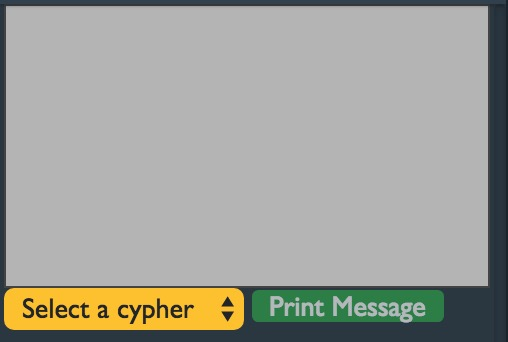
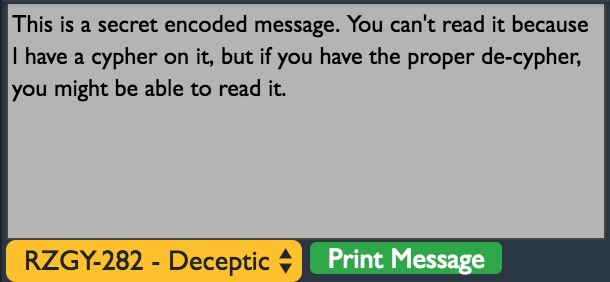
Add a couple of docs and a blog post. Update the Discord widget

Changed region(s): [[0.0, 0.0, 1.0, 1.0]]

diff --git a/website/core/Footer.js b/website/core/Footer.js
@@ -77,13 +77,7 @@ class Footer extends React.Component {
         <section className="copyright">
           Copyright &copy; {currentYear} Fyreworks LLC.
         </section>
-        <script
-          src="https://crate.widgetbot.io/v2"
-          defer
-          async
-          onLoad={this.loaded}
-          data-cfasync="false"
-        />
+        <script src="https://cdn.jsdelivr.net/npm/@widgetbot/crate@3" async />
         <script src="/scripts/crate.js" />
       </footer>
     );

diff --git a/website/static/scripts/crate.js b/website/static/scripts/crate.js
@@ -1,10 +1,12 @@
 function checkCrate() {
   if (window.Crate) {
-    return new Crate({
+    const crate = new Crate({
       server: "390968011605147648",
       channel: "391235306663182337"
     });
+    return;
   }
   setTimeout(checkCrate, 50);
 }
+
 checkCrate();

diff --git a/website/blog/2018-06-23-update-51.md b/website/blog/2018-06-23-update-51.md
@@ -1,0 +1,36 @@
+---
+title: "Update 51 - 🔋"
+author: Alex Anderson
+authorURL: http://twitter.com/ralex1993
+authorFBID: 764853781
+---
+
+## Version 0.2.47
+
+- Automatic updates are now triggered manually, to ensure you don't accidentally
+  update when you don't want to.
+- Inter-bridge messages can now be disabled on the Simulator config.
+- Add ability to change opacity of layers and objects on tactical map.
+- Added a THX card. [Read the docs](/docs/card_thx) for more information.
+- Added functionality for 'Speak' and 'Message' core actions.
+- Added a 'Soviet' card, a throwback to the old Magellan controls at the CMSEC.
+  It accessible through the actions picker on Core.
+
+- Bug Fixes
+  - Fixed an issue with scrolling videos file picker on tactical map configs.
+  - Adjusted tactical map layout and speeds. It should now be consistently sized
+    on core and the viewscreen, regardless of screen resolution.
+  - Removed the back button for validated damage reports.
+
+* Issues resolved in this update:
+  [here](https://github.com/Thorium-Sim/thorium/issues?utf8=✓&q=is%3Aissue+is%3Aclosed+closed%3A2018-06-19..2018-06-23)
+
+Also, be sure to join the
+[Thorium community chat channel](https://discord.gg/UvxTQZz). It's the best way
+to get questions answered and to receive updates and information.
+
+That's it for this week. Be sure to file any feature requests on the
+[Github repo](https://github.com/Thorium-Sim/thorium/issues) and see the current
+[roadmap](https://github.com/Thorium-Sim/thorium/projects/2).
+
+Alex

diff --git a/docs/card_comm_decoding.md b/docs/card_comm_decoding.md
@@ -2,3 +2,28 @@
 id:card_comm_decoding
 title:Comm Decoding
 ---
+
+![Comm Decoding](/docs/card_commEncoding.jpg)
+
+This is where incoming long range messages are decoded. Unless specified on the
+Core, every message sent will have to be decoded.
+
+On the right side of the screen is a list of message that have arrived,
+including a (faux) stardate and the name of the message sender. Clicking on the
+message will make the encoded message appear in the box at the bottom, along
+with activating the decoding matrix.
+
+To decode the message, the frequency and amplitude bars must be lined up with
+the incoming signal wave. Clicking the 'Decode' button will decode the message
+based on the signal waves. If they match, the message is decoded.
+
+![Core Decoding](/docs/core_decoding.jpg)
+
+The decoding core is simple. A gray box lets you type in the message you want to
+send. The top yellow box is the message sender. The yellow box can be filled in
+automatically by typing a line with '**Ship Name** out'. **Ship Name** will be
+put into the yellow box.
+
+You send the message with the 'Send' button. 'Clear' empties the box. Checking
+the 'Decoded' box makes it so the message doesn't show up encoded and can be
+read immediately.

diff --git a/docs/card_code_cyphers.md b/docs/card_code_cyphers.md
@@ -2,3 +2,20 @@
 id:card_code_cyphers
 title:Code Cyphers
 ---
+
+![Code Cyphers](/docs/card_codeCyphers.jpg)
+
+The code cyphers card is very simple. On the right side of the screen are a list
+of cyphers which might be used to encode a message that is sent to the ship.
+Clicking on the cypher shows the characters which represent the English
+characters. A print button allows this code cypher to be printed (which requires
+the printer to be configured beforehand).
+
+The intention is for printed message to use the special fonts to encode the
+messages. This is easily done with the Code Cyphers core.
+
+![Code Cyphers Core](core_codeCyphers.jpg)
+
+Simply type the message in the top box and choose the code cypher you wish to
+use. That message will show up as an encoded message which can then be printed
+from the Core computer to a printer on the bridge of the simulator.
